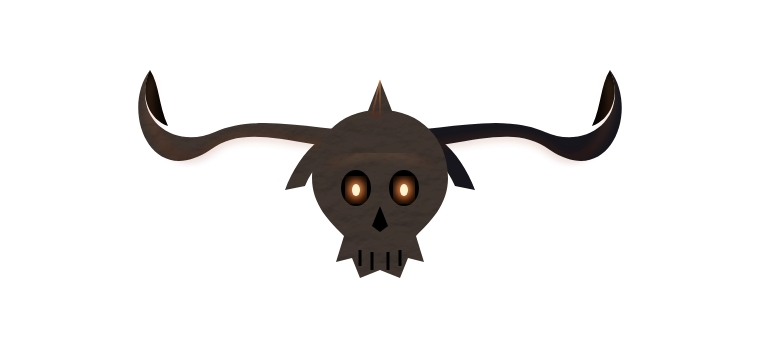
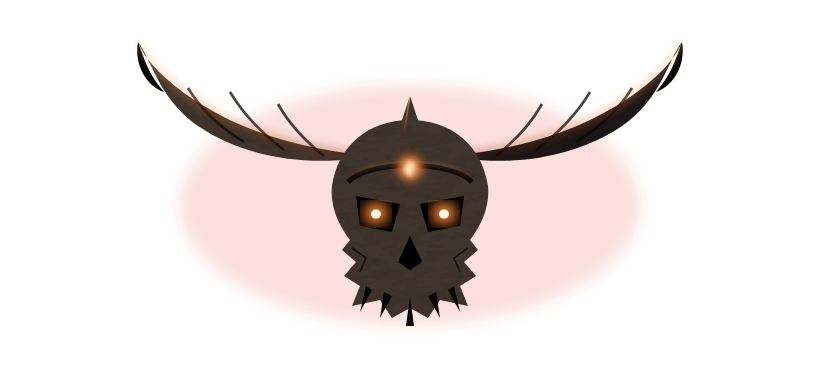
Better crest + bring the forge to life
- Redesign the demon-skull crest: angular menacing cranium, layered
  ridged horns sweeping to high curled tips, furrowed brow, angled
  glowing eye sockets, glowing forehead sigil, fanged jaw (replaces the
  round/cartoonish v1).
- Animate life into the static art: crest flickers like live coals,
  new panes forge into existence (scale/fade), and an ember glow
  breathes up from the pit behind the panes.

Changed region(s): [[0.1513, 0.1176, 0.8474, 0.8529], [0.4842, 0.6176, 0.5145, 0.7059]]

diff --git a/renderer/crest.html b/renderer/crest.html
@@ -9,126 +9,182 @@
       }
       html,
       body {
-        width: 760px;
-        height: 340px;
+        width: 820px;
+        height: 380px;
         overflow: hidden;
         background: transparent;
       }
     </style>
   </head>
   <body>
-    <svg width="760" height="340" viewBox="0 0 760 340" xmlns="http://www.w3.org/2000/svg">
+    <svg width="820" height="380" viewBox="0 0 820 380" xmlns="http://www.w3.org/2000/svg">
       <defs>
-        <filter id="iron" x="-20%" y="-20%" width="140%" height="140%">
+        <!-- dark forged bone/iron with hammered relief -->
+        <filter id="bone" x="-20%" y="-20%" width="140%" height="140%">
           <feTurbulence
             type="fractalNoise"
-            baseFrequency="0.035 0.05"
+            baseFrequency="0.028 0.04"
             numOctaves="4"
-            seed="7"
+            seed="9"
             result="n"
           />
           <feDiffuseLighting
             in="n"
-            surfaceScale="3"
-            diffuseConstant="1.2"
-            lighting-color="#6a5848"
+            surfaceScale="3.4"
+            diffuseConstant="1.25"
+            lighting-color="#6a5a48"
             result="l"
           >
-            <feDistantLight azimuth="250" elevation="60" />
+            <feDistantLight azimuth="255" elevation="62" />
           </feDiffuseLighting>
           <feColorMatrix
             in="l"
             type="matrix"
-            values="0.26 0 0 0 0.008  0 0.25 0 0 0.008  0 0 0.26 0 0.010  0 0 0 0 1"
+            values="0.24 0 0 0 0.01  0 0.22 0 0 0.009  0 0 0.22 0 0.009  0 0 0 0 1"
           />
           <feComposite in2="SourceAlpha" operator="in" />
         </filter>
-        <filter id="glow"><feGaussianBlur stdDeviation="4" /></filter>
-        <filter id="eyeGlow"><feGaussianBlur stdDeviation="5" /></filter>
-        <radialGradient id="eye" cx="50%" cy="45%" r="60%">
-          <stop offset="0%" stop-color="#fff2cf" />
-          <stop offset="35%" stop-color="#ff8c2e" />
-          <stop offset="100%" stop-color="#7a1d07" />
+        <filter id="glow"><feGaussianBlur stdDeviation="4.5" /></filter>
+        <filter id="eyeGlow"><feGaussianBlur stdDeviation="7" /></filter>
+        <filter id="softGlow"><feGaussianBlur stdDeviation="2" /></filter>
+        <radialGradient id="eye" cx="50%" cy="42%" r="62%">
+          <stop offset="0%" stop-color="#fff6d8" />
+          <stop offset="28%" stop-color="#ffb43a" />
+          <stop offset="62%" stop-color="#ff5a12" />
+          <stop offset="100%" stop-color="#5a1404" />
         </radialGradient>
         <linearGradient id="rim" x1="0" y1="0" x2="0" y2="1">
-          <stop offset="0%" stop-color="#ffb060" />
+          <stop offset="0%" stop-color="#ffcf8a" />
+          <stop offset="55%" stop-color="#ff7a26" />
           <stop offset="100%" stop-color="#7a1d07" />
         </linearGradient>
+        <linearGradient id="hornShade" x1="0" y1="0" x2="1" y2="1">
+          <stop offset="0%" stop-color="#241812" />
+          <stop offset="100%" stop-color="#080503" />
+        </linearGradient>
+        <radialGradient id="sigilG" cx="50%" cy="50%" r="55%">
+          <stop offset="0%" stop-color="#fff2cf" />
+          <stop offset="45%" stop-color="#ff8c2e" />
+          <stop offset="100%" stop-color="rgba(122,29,7,0)" />
+        </radialGradient>
       </defs>
 
-      <!-- symmetric horned crest, built left then mirrored -->
+      <!-- ambient glow behind the crest -->
+      <ellipse
+        cx="410"
+        cy="205"
+        rx="230"
+        ry="120"
+        fill="rgba(232,69,28,0.16)"
+        filter="url(#eyeGlow)"
+      />
+
+      <!-- ===== horns: layered, ridged, one side then mirrored ===== -->
       <g>
-        <!-- horns + brow, one side, mirrored via scale -->
-        <g id="half">
-          <!-- big outer horn sweeping up-out -->
+        <g id="horn">
+          <!-- thick horn sweeping out and up to a high curled tip -->
           <path
-            d="M380,150 C300,150 250,120 210,150 C150,190 120,110 150,70 C130,120 175,150 215,132 C260,112 320,132 380,132 Z"
-            fill="#0f0a07"
-            filter="url(#iron)"
+            d="M388,158
+               C322,152 260,140 204,106
+               C168,84 146,62 138,42
+               C152,60 158,98 198,126
+               C254,164 330,168 388,152 Z"
+            fill="url(#hornShade)"
+            filter="url(#bone)"
           />
-          <!-- horn tip -->
-          <path d="M150,70 C138,96 150,120 168,126 C158,104 160,86 150,70 Z" fill="#0a0604" />
-          <!-- inner brow spike -->
+          <!-- horn ridges following the curve -->
+          <g stroke="#0a0604" stroke-width="2.6" opacity="0.75" fill="none">
+            <path d="M244,142 C218,126 200,108 188,88" />
+            <path d="M284,150 C260,132 242,112 230,92" />
+            <path d="M324,156 C304,140 288,122 278,104" />
+          </g>
+          <!-- curled dark tip -->
+          <path d="M138,42 C134,64 146,86 164,92 C148,74 144,58 138,42 Z" fill="#050302" />
+          <!-- ember rim along the horn's upper edge -->
           <path
-            d="M380,120 C330,120 300,150 285,190 L305,186 C320,152 345,138 380,138 Z"
-            fill="#0f0a07"
-            filter="url(#iron)"
-          />
-          <!-- ember rim on the horn's top edge -->
-          <path
-            d="M380,150 C300,150 250,120 210,150 C170,180 140,120 152,78"
+            d="M388,158 C322,152 260,140 204,106 C166,82 146,60 140,44"
             fill="none"
             stroke="url(#rim)"
-            stroke-width="2.5"
-            opacity="0.6"
+            stroke-width="3"
+            opacity="0.72"
             filter="url(#glow)"
           />
         </g>
-        <use href="#half" transform="translate(760,0) scale(-1,1)" />
+        <use href="#horn" transform="translate(820,0) scale(-1,1)" />
       </g>
 
-      <!-- central skull/emblem boss -->
+      <!-- ===== skull: angular, menacing ===== -->
       <g>
-        <!-- cranium -->
+        <!-- cranium + brow (angular) -->
         <path
-          d="M380,110 C338,110 312,140 312,178 C312,205 330,222 344,236 L336,262 L352,258 L360,278 L380,270
-             L400,278 L408,258 L424,262 L416,236 C430,222 448,205 448,178 C448,140 422,110 380,110 Z"
-          fill="#0d0806"
-          filter="url(#iron)"
+          d="M410,120
+             C368,120 338,146 332,186
+             C330,206 338,224 350,240
+             L342,250 L356,262 L344,276
+             L360,286 L352,306 L380,300 L392,318 L410,308
+             L428,318 L440,300 L468,306 L460,286 L476,276
+             L464,262 L478,250 L470,240
+             C482,224 490,206 488,186
+             C482,146 452,120 410,120 Z"
+          fill="#0e0a07"
+          filter="url(#bone)"
         />
-        <!-- brow ridge rim -->
+        <!-- furrowed brow ridge -->
         <path
-          d="M330,168 C348,150 412,150 430,168"
+          d="M348,182 C368,160 452,160 472,182"
           fill="none"
-          stroke="url(#rim)"
-          stroke-width="2"
-          opacity="0.5"
-          filter="url(#glow)"
+          stroke="#050302"
+          stroke-width="5"
+          opacity="0.9"
         />
-        <!-- eye sockets, glowing -->
-        <ellipse cx="356" cy="188" rx="15" ry="18" fill="#000" />
-        <ellipse cx="404" cy="188" rx="15" ry="18" fill="#000" />
-        <ellipse cx="356" cy="190" rx="9" ry="11" fill="url(#eye)" filter="url(#eyeGlow)" />
-        <ellipse cx="404" cy="190" rx="9" ry="11" fill="url(#eye)" filter="url(#eyeGlow)" />
-        <ellipse cx="356" cy="190" rx="4" ry="6" fill="#fff2cf" />
-        <ellipse cx="404" cy="190" rx="4" ry="6" fill="#fff2cf" />
-        <!-- nasal + jaw hints -->
-        <path d="M380,206 L372,226 L380,232 L388,226 Z" fill="#000" />
-        <g stroke="#000" stroke-width="3">
-          <line x1="360" y1="250" x2="360" y2="266" />
-          <line x1="372" y1="252" x2="372" y2="270" />
-          <line x1="388" y1="252" x2="388" y2="270" />
-          <line x1="400" y1="250" x2="400" y2="266" />
-        </g>
-        <!-- crown spike above skull -->
-        <path d="M380,80 L366,116 L394,116 Z" fill="#0f0a07" filter="url(#iron)" />
         <path
-          d="M380,80 L372,116 L380,116 Z"
+          d="M350,178 C370,158 450,158 470,178"
           fill="none"
           stroke="url(#rim)"
           stroke-width="1.6"
-          opacity="0.5"
+          opacity="0.45"
+          filter="url(#softGlow)"
         />
+        <!-- angry angled eye sockets -->
+        <path d="M356,196 L400,204 L392,232 L360,226 Z" fill="#000" />
+        <path d="M464,196 L420,204 L428,232 L460,226 Z" fill="#000" />
+        <!-- glowing eyes -->
+        <ellipse cx="376" cy="214" rx="13" ry="11" fill="url(#eye)" filter="url(#eyeGlow)" />
+        <ellipse cx="444" cy="214" rx="13" ry="11" fill="url(#eye)" filter="url(#eyeGlow)" />
+        <ellipse cx="376" cy="214" rx="5" ry="4.5" fill="#fff6e0" />
+        <ellipse cx="444" cy="214" rx="5" ry="4.5" fill="#fff6e0" />
+        <!-- nasal cavity (angular) -->
+        <path d="M410,236 L398,262 L410,270 L422,262 Z" fill="#000" />
+        <!-- cheek cracks -->
+        <g stroke="#050302" stroke-width="1.6" opacity="0.7" fill="none">
+          <path d="M352,248 L366,258 L360,272" />
+          <path d="M468,248 L454,258 L460,272" />
+        </g>
+        <!-- fanged jaw -->
+        <g fill="#0a0604">
+          <path d="M366,286 L360,312 L372,290 Z" />
+          <path d="M384,292 L380,318 L392,296 Z" />
+          <path d="M410,296 L406,326 L414,326 L410,296 Z" />
+          <path d="M436,292 L440,318 L428,296 Z" />
+          <path d="M454,286 L460,312 L448,290 Z" />
+        </g>
+        <!-- forehead sigil, glowing -->
+        <circle cx="410" cy="168" r="16" fill="url(#sigilG)" filter="url(#glow)" />
+        <text
+          x="410"
+          y="176"
+          font-family="Georgia, serif"
+          font-weight="700"
+          font-size="20"
+          fill="#fff2cf"
+          text-anchor="middle"
+          filter="url(#softGlow)"
+        >
+          &#5808;
+        </text>
+        <!-- crown spike -->
+        <path d="M410,96 L398,132 L422,132 Z" fill="#0e0a07" filter="url(#bone)" />
+        <path d="M410,96 L404,132" stroke="url(#rim)" stroke-width="1.6" opacity="0.5" />
       </g>
     </svg>
   </body>

diff --git a/renderer/style.css b/renderer/style.css
@@ -331,12 +331,33 @@ body {
   top: 1px;
   left: 50%;
   transform: translateX(-50%);
-  width: 300px;
-  height: 134px;
+  width: 306px;
+  height: 142px;
   background: url("crest.png") center top / contain no-repeat;
   pointer-events: none;
   z-index: 200;
-  filter: drop-shadow(0 5px 10px rgba(0, 0, 0, 0.85)) drop-shadow(0 0 22px rgba(255, 90, 20, 0.22));
+  animation: crestflicker 5.5s ease-in-out infinite;
+}
+/* eyes/sigil are baked into the PNG; a brightness + ember-glow pulse makes them
+   flicker like live coals */
+@keyframes crestflicker {
+  0%,
+  100% {
+    filter: drop-shadow(0 5px 10px rgba(0, 0, 0, 0.85))
+      drop-shadow(0 0 20px rgba(255, 90, 20, 0.18)) brightness(1);
+  }
+  42% {
+    filter: drop-shadow(0 5px 10px rgba(0, 0, 0, 0.85))
+      drop-shadow(0 0 30px rgba(255, 110, 30, 0.4)) brightness(1.13);
+  }
+  55% {
+    filter: drop-shadow(0 5px 10px rgba(0, 0, 0, 0.85)) drop-shadow(0 0 18px rgba(255, 90, 20, 0.2))
+      brightness(0.96);
+  }
+  70% {
+    filter: drop-shadow(0 5px 10px rgba(0, 0, 0, 0.85))
+      drop-shadow(0 0 26px rgba(255, 110, 30, 0.32)) brightness(1.07);
+  }
 }
 
 /* ---------- main row: sidebar + stage ---------- */
@@ -605,6 +626,39 @@ body {
   position: relative;
   min-height: 0;
 }
+/* living ember glow breathing up from the pit, behind the panes */
+#stage::before {
+  content: "";
+  position: absolute;
+  left: 0;
+  right: 0;
+  bottom: 0;
+  height: 42%;
+  z-index: 0;
+  pointer-events: none;
+  background: radial-gradient(
+    ellipse 70% 100% at 50% 100%,
+    rgba(255, 110, 30, 0.16),
+    rgba(232, 69, 28, 0.05) 45%,
+    transparent 72%
+  );
+  transform-origin: 50% 100%;
+  animation: pitbreathe 6.5s ease-in-out infinite;
+}
+@keyframes pitbreathe {
+  0%,
+  100% {
+    opacity: 0.6;
+    transform: scaleY(0.94);
+  }
+  50% {
+    opacity: 1;
+    transform: scaleY(1.06);
+  }
+}
+#panes {
+  z-index: 1;
+}
 
 /* pane grid */
 #panes {
@@ -645,6 +699,19 @@ body {
 }
 .term-holder.shown {
   display: block;
+  animation: forgein 0.34s cubic-bezier(0.2, 0.9, 0.3, 1);
+}
+/* a new pane forges into existence */
+@keyframes forgein {
+  0% {
+    opacity: 0;
+    transform: scale(0.96);
+    box-shadow: 0 0 40px rgba(255, 122, 38, 0.5);
+  }
+  100% {
+    opacity: 1;
+    transform: scale(1);
+  }
 }
 .term-holder.focused {
   border-color: rgba(255, 122, 38, 0.4);
